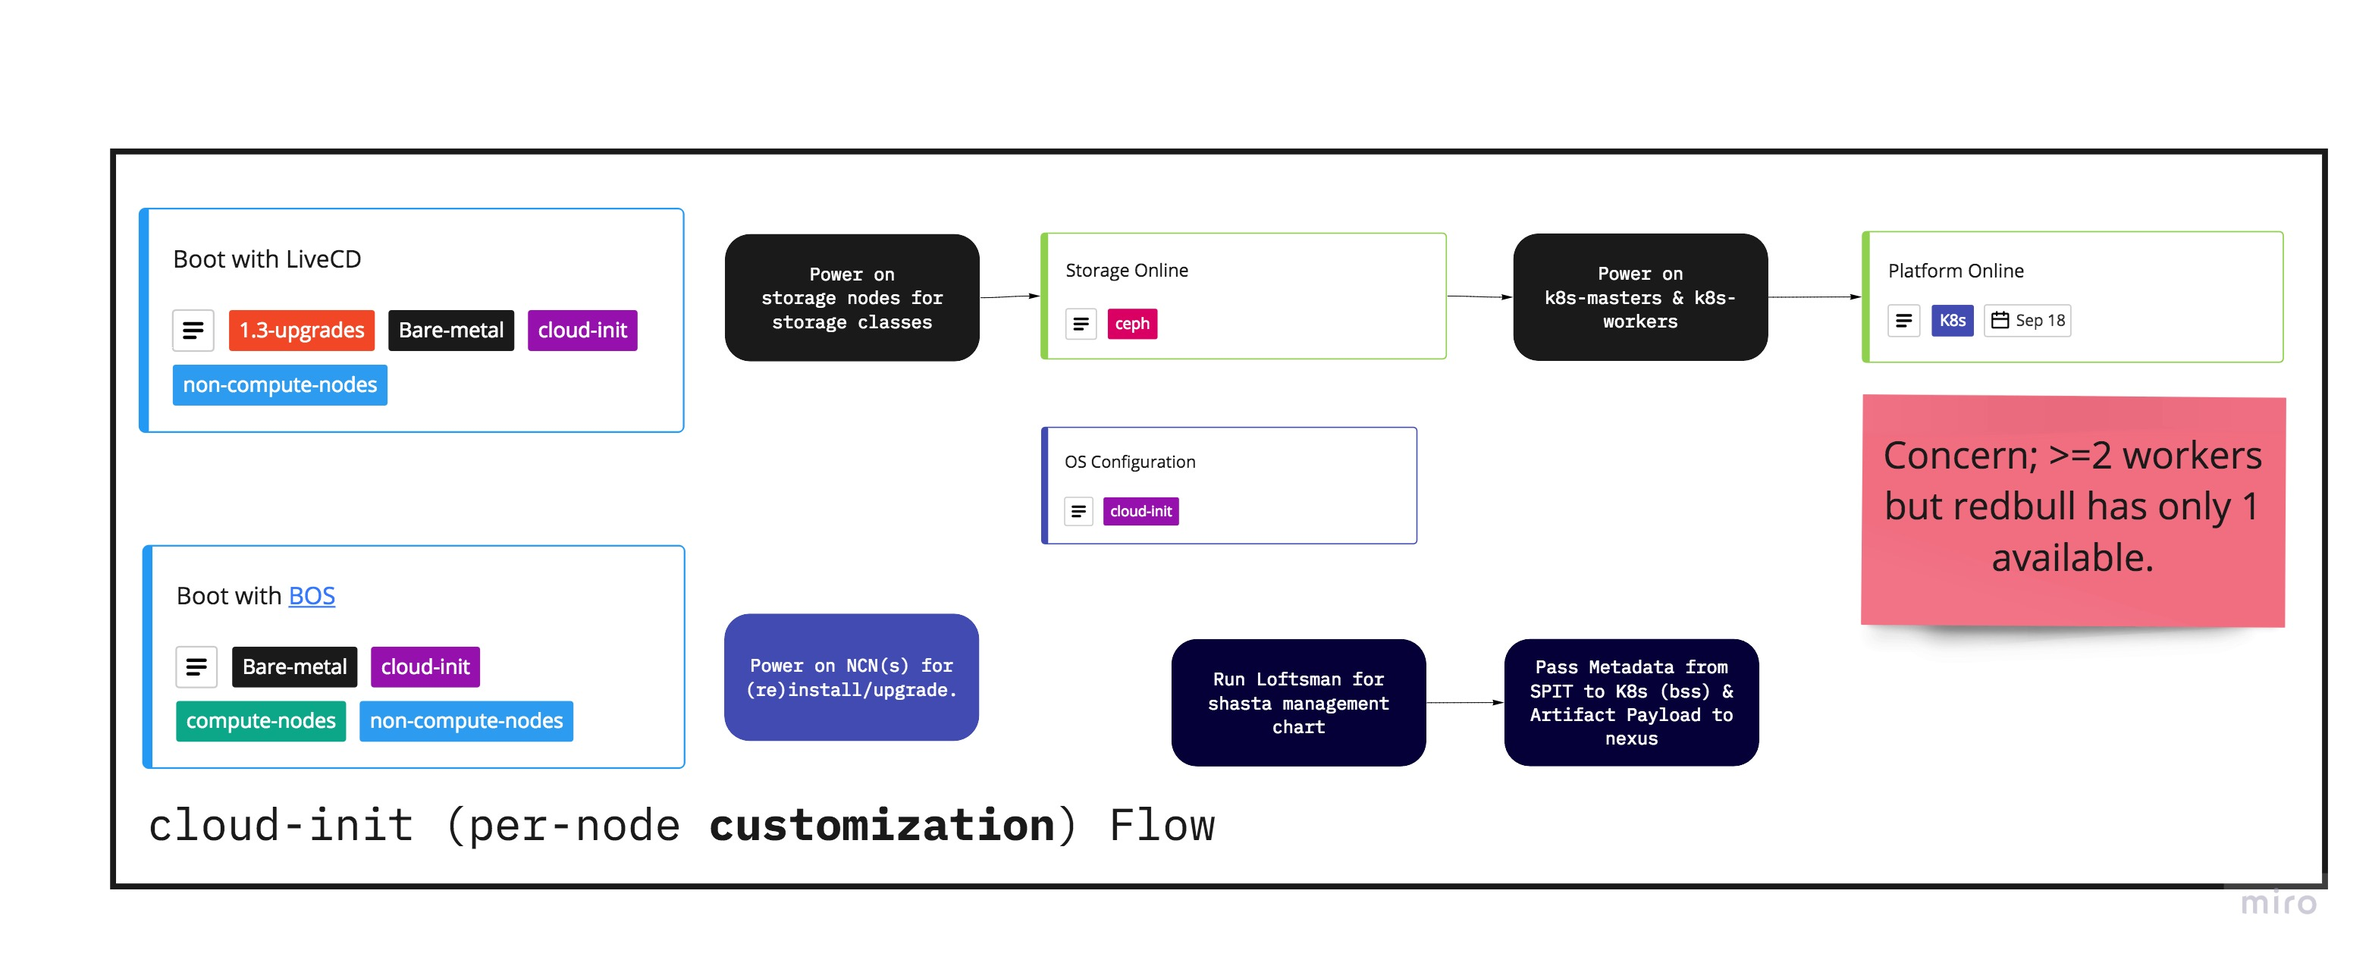
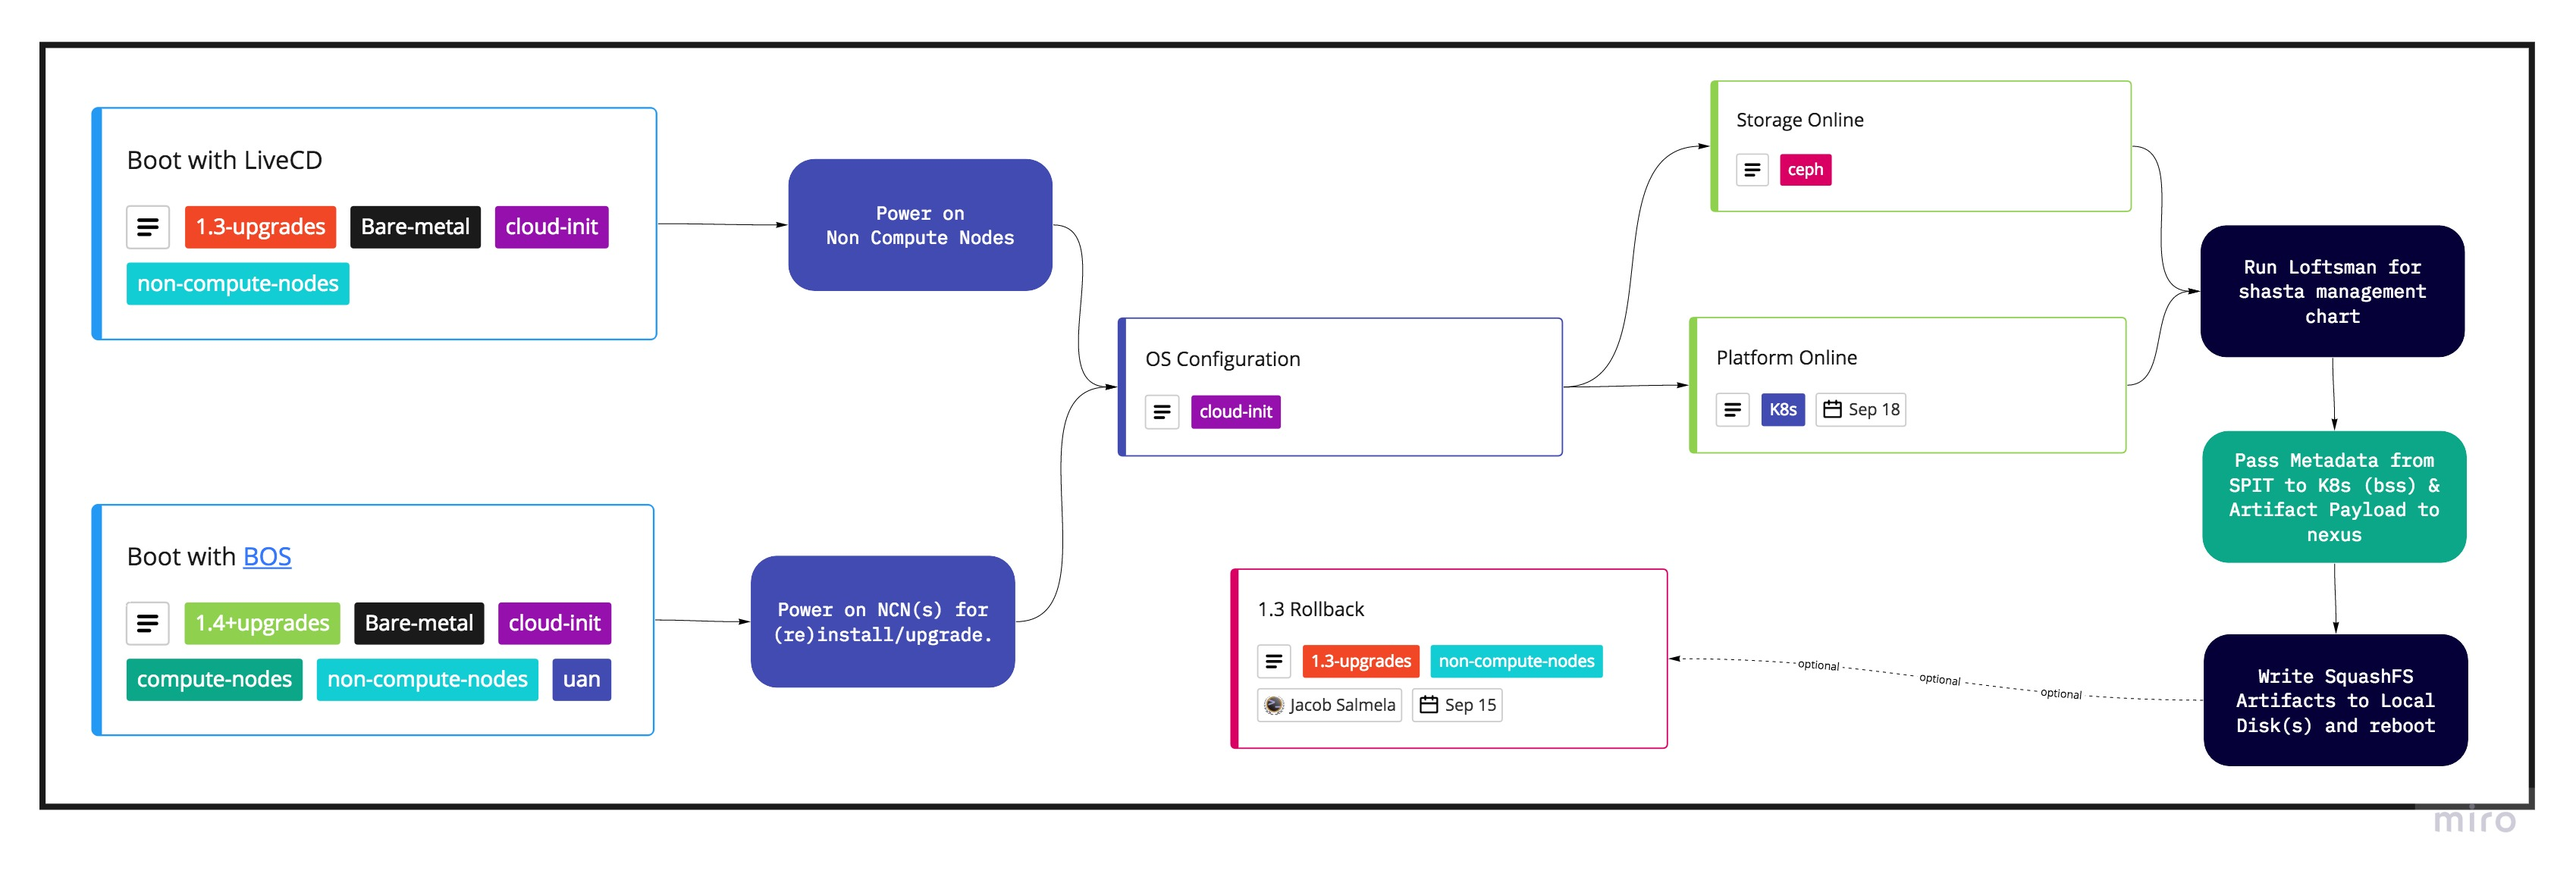
Reorg changes

Changed region(s): [[0.0, 0.0918, 0.9923, 0.9482], [0.0, 0.0306, 0.9923, 0.0612], [0.062, 0.0918, 0.2481, 0.1223]]

diff --git a/05-LIVECD-CREATION.md b/05-LIVECD-CREATION.md
@@ -36,6 +36,8 @@ ncn-w001:~ # mount /dev/sdd4 /mnt/
 
 ## Manual Step 2: Configuration Payload
 
+### Configs
+
 Now our stick is ready, and we can load configuration payload information.
 ```shell script
 ## 3.a.
@@ -94,6 +96,17 @@ echo "export can_dhcp_start=10.102.4.5" >> /mnt/qnd-1.4.sh
 echo "export can_dhcp_end=10.102.4.109" >> /mnt/qnd-1.4.sh
 ```
 
+### Artifacts
+
+`in-progress`
+```shell script
+
+wget --mirror -np -nH -A *.kernel,*initrd* -nv --cut-dirs=5 http://arti.dev.cray.com:80/artifactory/node-images-unstable-local/shasta/sles15-base/0.0.1-1
+wget --mirror -np -nH -A *.squashfs -nv --cut-dirs=5 http://arti.dev.cray.com:80/artifactory/node-images-unstable-local/shasta/kubernetes/0.0.1-4
+wget --mirror -np -nH -A *.squashfs -nv --cut-dirs=5 http://arti.dev.cray.com/artifactory/node-images-unstable-local/shasta/storage-ceph/0.0.1-6
+```
+
+
 #### 1.3.x Upgrade Notice
 
 **Copy `/tmp/qnd-1.4.sh`** to `/mnt/` or wherever you've mounted the data partition **now**.
@@ -121,8 +134,8 @@ Once the system is booted, have your network information handy so you can popula
 - The CAN IP/CIDR (ex: `can_cidr=10.102.4.110/24`)
 
 Then you can move onto these next two pages:
-1. Setting up communication...[11-LIVECD-SETUP.md](11-LIVECD-SETUP.md)
-2. Booting NCNs [12-LIVECD-NCN-BOOTS.md](12-LIVECD-NCN-BOOTS.md)
+1. Setting up communication...[11-LIVECD-SETUP.md](06-LIVECD-SETUP.md)
+2. Booting NCNs [12-LIVECD-NCN-BOOTS.md](07-LIVECD-NCN-BOOTS.md)
 
 # remove block-device leeway
 # add blurb to re-run the script on the setup page

diff --git a/README.md b/README.md
@@ -1,21 +1,32 @@
-# Non Compute Nodes
+# Non Compute Nodes (NCN)
 
-This space contains documentation for Shasta Non-Compute Nodes.
+This space covers everything non-compute node, from admin guides for deployments and upgrades
+to overview/educational background information.
+
+## Deployment Guides (LiveCD)
 
 > If this topic is relevant to you, be sure to revisit this space for
 > updates.
 
-# Versioning
+For **new users** of the liveCD, start here:
 
-### Table of Contents:
+* [LiveCD Creation](05-LIVECD-CREATION.md)
+* [LiveCD Setup](06-LIVECD-SETUP.md)
+* [LiveCD NCN Boots](07-LIVECD-NCN-BOOTS.md)
 
-* [Images](00-IMAGES.md)
-* [Booting](01-BOOTING.md)
-* [Firmware](02-FIRMWARE.md)
-* [Networking](03-NETWORKING.md)
-* [Partitioning](04-PARTITIONING.md)
-* [LiveCD Preflight](09-LIVECD-PREFLIGHT.md)
-* [LiveCD Creation](10-LIVECD-CREATION.md)
-* [LiveCD Setup](11-LIVECD-SETUP.md)
-* [LiveCD NCN Boots](12-LIVECD-NCN-BOOTS.md)
+For users seeking **1.3 upgrade guides** see here:
+
+* [LiveCD Preflight](10-LIVECD-PREFLIGHT.md)
 * [LiveCD 1.3 Rollback](13-LIVECD-1.3-ROLLBACK.md)
+
+## Upgrade Guides
+
+> TODO
+
+## NCN Architecture
+
+* [Images](100-IMAGES.md)
+* [Booting](101-BOOTING.md)
+* [Firmware](102-FIRMWARE.md)
+* [Networking](103-NETWORKING.md)
+* [Partitioning](104-PARTITIONING.md)

diff --git a/07-LIVECD-NCN-BOOTS.md b/07-LIVECD-NCN-BOOTS.md
@@ -1,7 +1,7 @@
 # LiveCD NCN Boots
 
 Before starting this you are expected to have networking and serices setup.
-If you are unsure, see the bottom of [11-LIVECD-SETUP.md](11-LIVECD-SETUP.md).
+If you are unsure, see the bottom of [11-LIVECD-SETUP.md](06-LIVECD-SETUP.md).
 
 ## IMPORTANT: Make sure the other nodes are shut down
 This was done in an earlier section, but it's important you have **shut down all the other NCNs to prevent DHCP conflicts**.  
@@ -39,7 +39,7 @@ If we loose DHCP for some reason, we can use defined IP addresses from
 DNSmasq.
 
 > Note: this requires a statics.conf file to be generated with the BMC MAC addresses.
-> See [09-LIVECD-PREFLIGHT.md](09-LIVECD-PREFLIGHT.md) for more information.
+> See [09-LIVECD-PREFLIGHT.md](10-LIVECD-PREFLIGHT.md) for more information.
 
 ```shell script
 username=''

diff --git a/10-LIVECD-PREFLIGHT.md b/10-LIVECD-PREFLIGHT.md
@@ -142,8 +142,13 @@ dhcp-host=94:40:c9:37:e3:3a,10.254.2.10,ncn-m002-mgmt
 ### NCNs
 
 > Note: Hostname resolution for NMN is not dynamic yet due to cloud-init integration.
-> A shim to allow for this is provided in [12-LIVECD-NCN-BOOTS.md](12-LIVECD-NCN-BOOTS.md).
+> A shim to allow for this is provided in [12-LIVECD-NCN-BOOTS.md](07-LIVECD-NCN-BOOTS.md).
+
+
+## Artifact Gathering for Booting Nodes:
+
+
 
 # Next..
 
-Now move onto [10-LIVECD-CREATION](10-LIVECD-CREATION.md).
+Now move onto [05-LIVECD-CREATION](05-LIVECD-CREATION.md).

diff --git a/13-LIVECD-1.3-ROLLBACK.md b/13-LIVECD-1.3-ROLLBACK.md
@@ -1,1 +1,3 @@
 # LiveCD 1.3 Rollback
+
+> TODO
